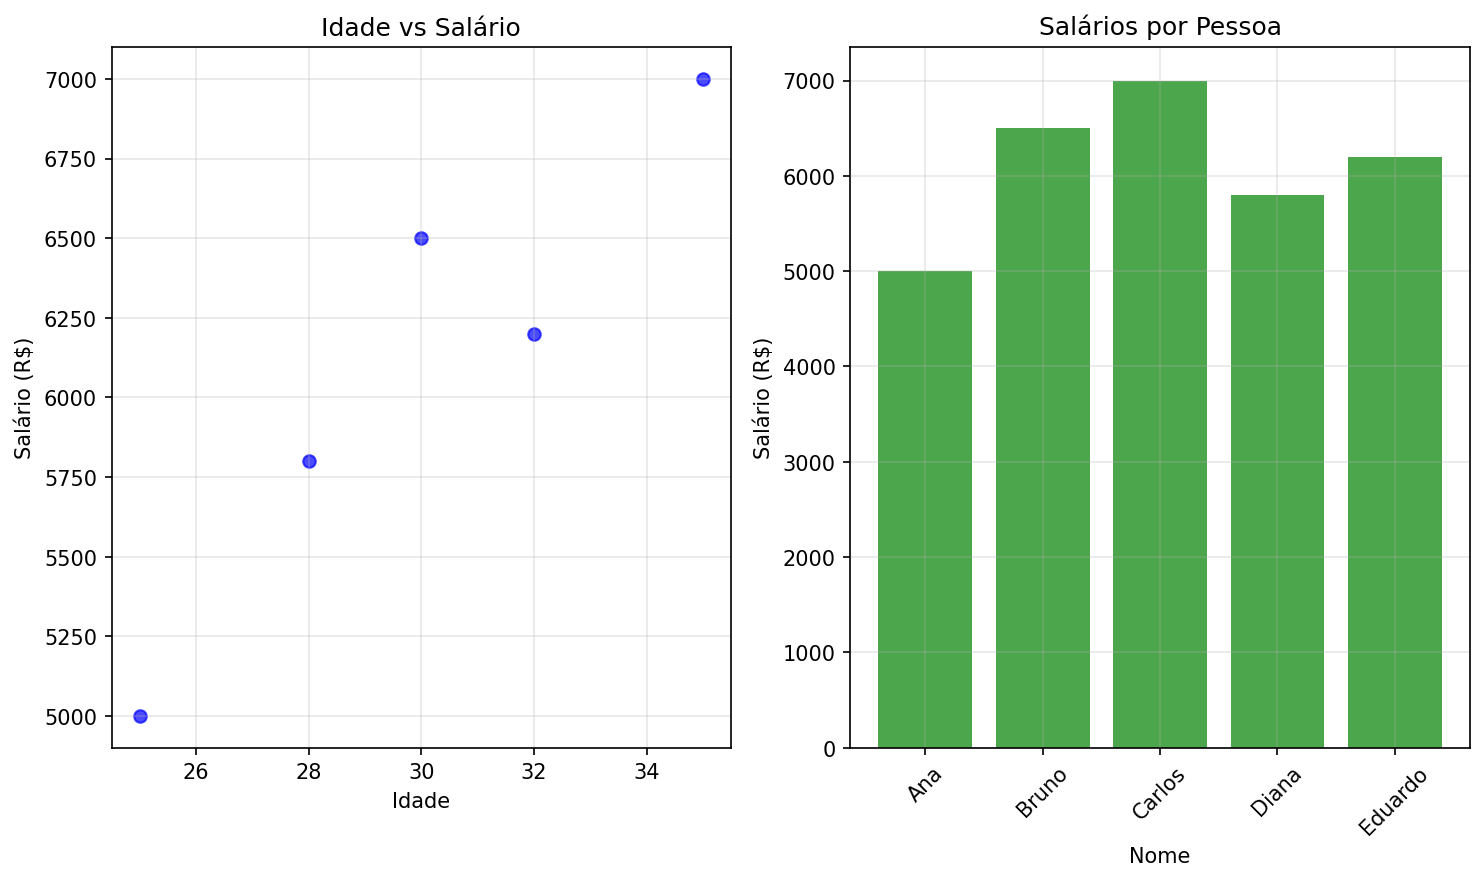
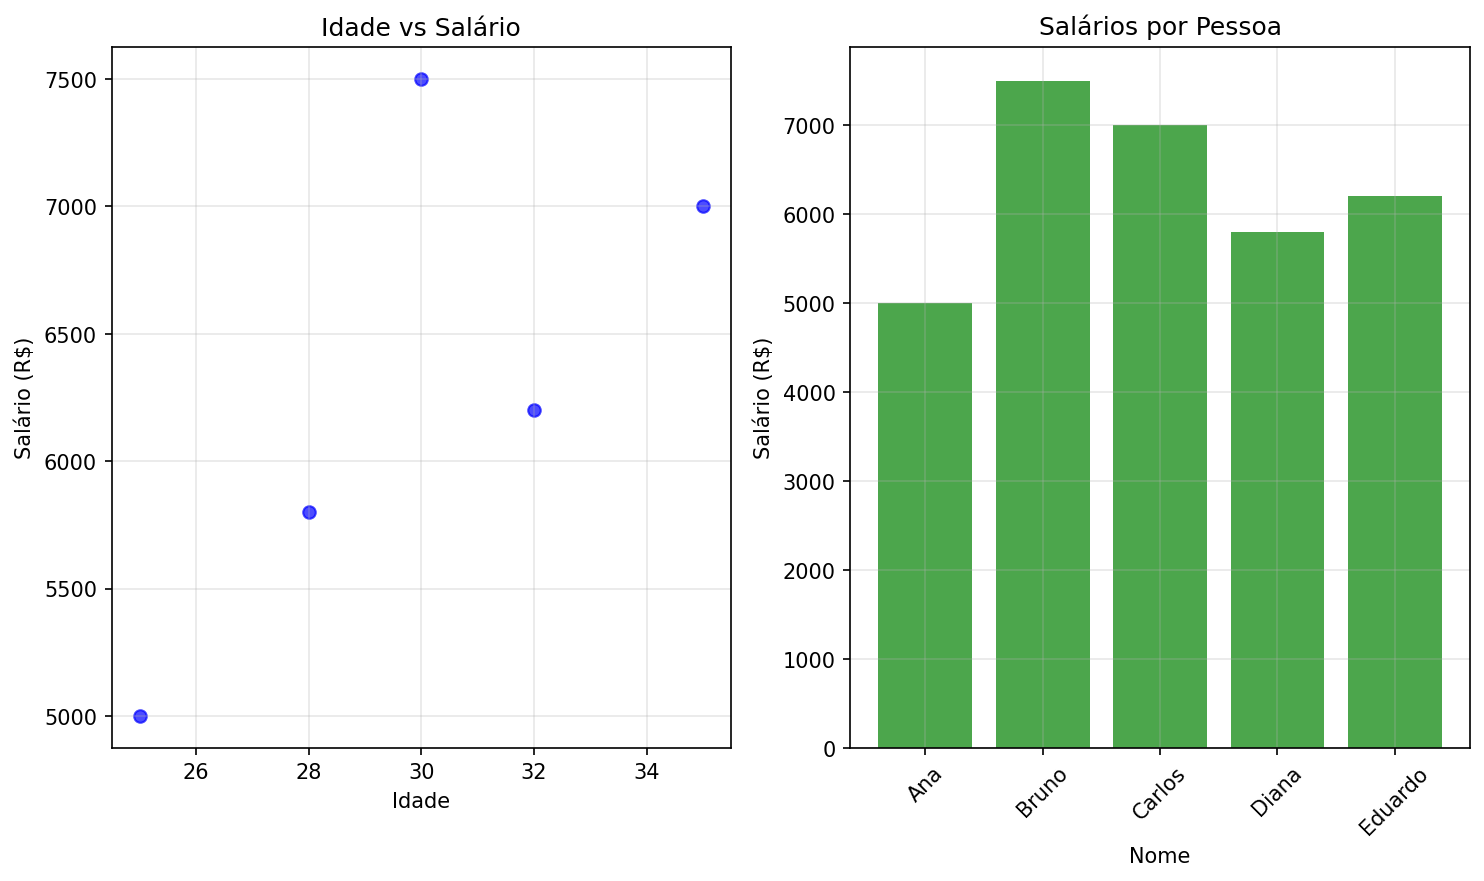
aula

diff --git a/aula3/atividade2.py b/aula3/atividade2.py
@@ -1,0 +1,59 @@
+# 1. 📊 Comparação entre dois valores numéricos
+x = float(input("Informe o valor X: "))
+y = float(input("Informe o valor Y: "))
+
+if x > y:
+    print(f"Valor {x} é maior que valor {y}")
+elif x < y:
+    print(f"Valor {x} é menor que valor {y}")
+else:
+    print("Os valores de X e Y são iguais")
+
+# 2. 📝 Comparação entre dois textos
+texto1 = input("Informe o primeiro texto: ")
+texto2 = input("Informe o segundo texto: ")
+
+if texto1 == texto2:
+    print("Os valores informados são iguais")
+else:
+    print(f"Valor '{texto1}' é diferente do valor '{texto2}'")
+
+# 3. 👶👨🧓 Verificação de idade
+idade = int(input("Informe sua idade: "))
+
+if idade < 18:
+    print("Você é menor de idade")
+elif idade < 60:
+    print("Você é adulto")
+else:
+    print("Você é idoso")
+
+# 4. 🔁 Loop for de 1 a 10
+print("Loop for de 1 até 10:")
+for i in range(1, 11):
+    print(i, end=" ")
+print()
+
+# 5. 🔄 Loop while de 1 a 10
+print("Loop while de 1 até 10:")
+contador = 1
+while contador <= 10:
+    print(contador, end=" ")
+    contador += 1
+print()
+
+# 6. 📚 Dicionário com chave, valor e índice
+dados = {'a': 'primeiro', 'b': 'segundo', 'c': 'terceiro', 'd': 'quarto', 'e': 'quinto'}
+
+print("Índice | Chave | Valor")
+for indice, (chave, valor) in enumerate(dados.items()):
+    print(f"{indice}      | {chave}     | {valor}")
+
+# 7. 🧮 Filtrar e imprimir valores específicos em ordem
+numeros = [9, 25, 5, 6, 5815, 985, 1, 22, 2, 7, 3]
+valores_desejados = [1, 2, 5, 6]
+
+# Criar nova lista contendo apenas os valores desejados e na ordem certa
+resultado = [valor for valor in valores_desejados if valor in numeros]
+
+print("Valores filtrados:", resultado)

diff --git a/aula2/exemplo_pandas.py b/aula2/exemplo_pandas.py
@@ -22,7 +22,47 @@ df = pd.DataFrame(dados)
 print("\nDADOS CRIADOS:")
 print(df)
 
-print(f"\nESTATÍSTICAS:")
+# ==============================================
+# DEMONSTRAÇÃO: ALTERANDO VARIÁVEIS
+# ==============================================
+
+print("\n" + "="*50)
+print("DEMONSTRAÇÃO: ALTERANDO VARIÁVEIS APÓS IMPRIMIR")
+print("="*50)
+
+# Variável simples - valor inicial
+salario_inicial = 5000
+print(f"\n1. Salário inicial: R$ {salario_inicial}")
+
+# Alterando o valor da variável
+salario_inicial = salario_inicial + 1000  # Aumento de R$ 1000
+print(f"   Após aumento: R$ {salario_inicial}")
+
+# Exemplo com string
+nome_funcionario = "João"
+print(f"\n2. Nome inicial: {nome_funcionario}")
+nome_funcionario = "João Silva"  # Adicionando sobrenome
+print(f"   Nome completo: {nome_funcionario}")
+
+# Exemplo com lista
+idades = [25, 30, 35]
+print(f"\n3. Idades originais: {idades}")
+idades.append(28)  # Adicionando nova idade
+print(f"   Após adicionar idade: {idades}")
+
+# Exemplo com DataFrame - alterando dados
+print(f"\n4. ALTERANDO DADOS NO DATAFRAME:")
+print(f"   Salário do Bruno antes: R$ {df.loc[df['Nome'] == 'Bruno', 'Salário'].values[0]}")
+
+# Alterando o salário do Bruno
+df.loc[df['Nome'] == 'Bruno', 'Salário'] = 7500
+print(f"   Salário do Bruno depois: R$ {df.loc[df['Nome'] == 'Bruno', 'Salário'].values[0]}")
+
+# Mostrando a tabela atualizada
+print(f"\n5. TABELA ATUALIZADA:")
+print(df)
+
+print(f"\nESTATÍSTICAS RECALCULADAS:")
 print(f"Idade média: {df['Idade'].mean():.1f} anos")
 print(f"Salário médio: R$ {df['Salário'].mean():.2f}")
 print(f"Pessoa mais velha: {df.loc[df['Idade'].idxmax(), 'Nome']} ({df['Idade'].max()} anos)")

diff --git a/aula3/atividades.py b/aula3/atividades.py
@@ -1,0 +1,56 @@
+# 1. 🔢 Variáveis de vários tipos com print() e type()
+inteiro = 10
+decimal = 3.14
+booleano = True
+texto = "Olá, mundo!"
+nulo = None
+bytes_var = b"exemplo"
+bytearray_var = bytearray(b"exemplo")
+
+print(inteiro, type(inteiro))
+print(decimal, type(decimal))
+print(booleano, type(booleano))
+print(texto, type(texto))
+print(nulo, type(nulo))
+print(bytes_var, type(bytes_var))
+print(bytearray_var, type(bytearray_var))
+
+# 2. 📋 Lista com 5 números
+numeros = [5, 2, 9, 1, 7]
+print("Tamanho da lista:", len(numeros))
+print("Ordem crescente:", sorted(numeros))
+print("Ordem decrescente:", sorted(numeros, reverse=True))
+
+# 3. 🔘 Tupla com 3 cores
+cores = ("vermelho", "azul", "verde")
+print("Primeira cor:", cores[0])
+print("azul aparece", cores.count("azul"), "vez(es)")
+print("Índice de 'verde':", cores.index("verde"))
+
+# 4. 🌀 Set com elementos repetidos
+conjunto = {1, 2, 2, 3, 4, 4, 5}
+print("Set sem duplicatas:", conjunto)  # Os elementos duplicados são ignorados
+
+# 5. 🗂 Dicionário com nome, idade, curso
+pessoa = {
+    "nome": "Ana",
+    "idade": 22,
+    "curso": "Engenharia"
+}
+print("Nome:", pessoa["nome"])
+print("Idade:", pessoa["idade"])
+print("Curso:", pessoa["curso"])
+
+# 6. 📅 Data usando datetime.date()
+import datetime
+data_hoje = datetime.date.today()
+print("Data de hoje:", data_hoje)
+
+# 7. ➕ Soma e concatenação com f-string
+a = 10
+b = 5
+print(f"Soma: {a + b}")
+
+nome = "João"
+sobrenome = "Silva"
+print(f"Nome completo: {nome} {sobrenome}")

diff --git a/aula1/main.py b/aula1/main.py
@@ -4,7 +4,44 @@ print("=" * 50)
 print("Bem-vindo à Aula 1 de Python!")
 print("=" * 50)
 # ==============================================
-# Jogo da Velha simples em Python
 
+nome = input("Digite seu nome: ")
+print(f"Olá, {nome}! Vamos jogar Jogo da Velha."); 
+
+
+# Soma de dois valores fixos
+valor1 = 15
+valor2 = 25
+resultado = valor1 + valor2
+
+print(f"Somando dois valores fixos:")
+print(f"{valor1} + {valor2} = {resultado}")
+
+usuario = input("Digite seu nome de usuário: ")
+print(f"Bem-vindo, {usuario}!")
+
+# ==============================================
+# Exemplo de alteração de valor de variável
+minha_variavel = 100
+print(f"Valor inicial da variável: {minha_variavel}")
+
+# Alterando o valor da variável
+minha_variavel = 250
+print(f"Novo valor da variável: {minha_variavel}")
+
+# Criando variável curso
+curso = "Python"
+print(f"Você está aprendendo {curso}")
+
+# ==============================================
+valor1 = 10
+valor2 = 20
+media = (valor1 + valor2) / 2
+print(f"A média entre {valor1} e {valor2} é {media}")
+
+nome = "Ana"
+idade = 28
+cidade = 'São Paulo'
+print(f"{nome}, {idade} anos, mora em {cidade}.")
 
 
